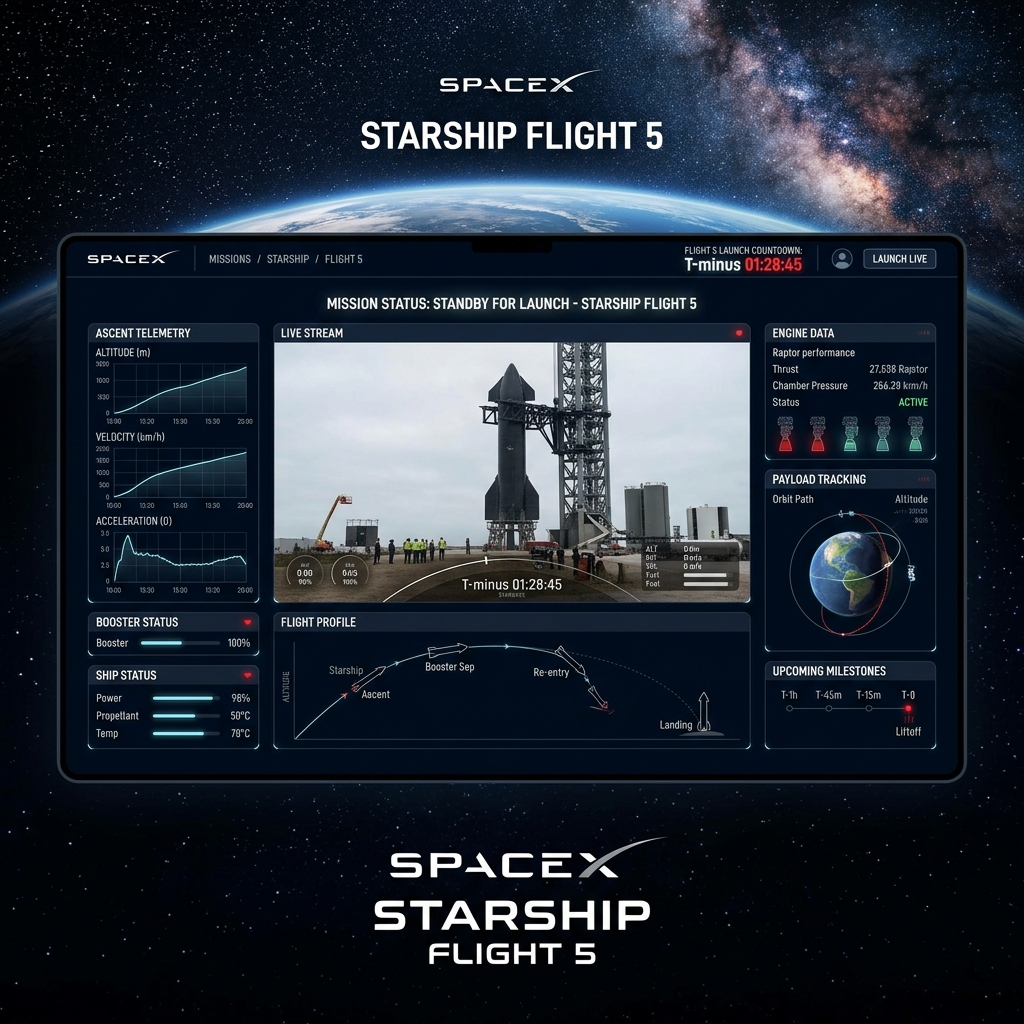
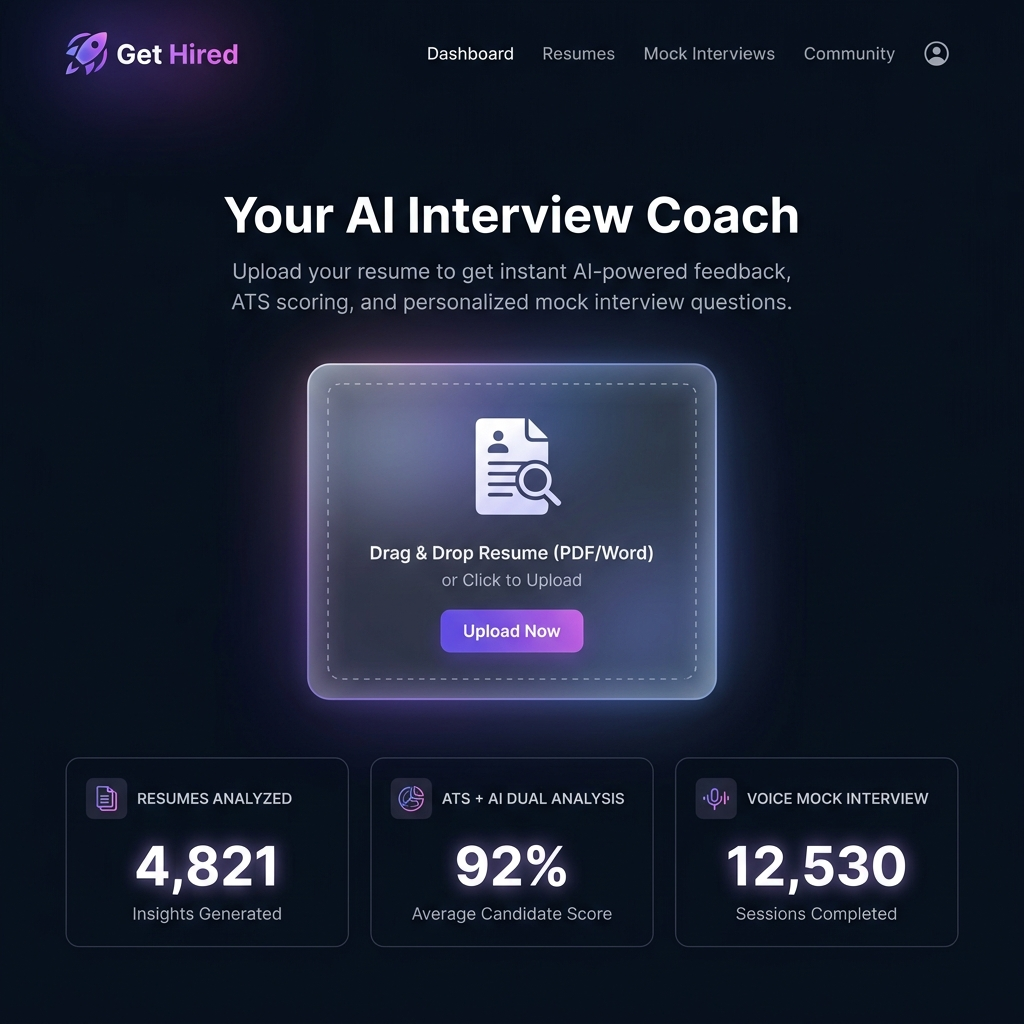
chore: replace SpaceX card with AI Interview Coach, add flat website mockup and links

diff --git a/src/container/Work/Work.jsx b/src/container/Work/Work.jsx
@@ -23,6 +23,7 @@ const projectImages = {
   'Origin.Ai': projectUiux,
   'Ewalle wallet app': projectEwalle,
   SpaceX: projectSpacex,
+  'AI Interview Coach': projectSpacex,
   'Web3.0 Project': projectWeb3,
   'Apex Fitness': projectApexfitness,
   'Blog Website': projectBlog,
@@ -50,11 +51,11 @@ const fallbackWorks = [
     tags: ['Mobile App', 'UI/UX', 'React JS'],
   },
   {
-    title: 'SpaceX',
-    description: 'SpaceX CRUD API built with Node JS.',
-    projectLink: 'https://google.com',
-    codeLink: 'https://google.com',
-    tags: ['Web App'],
+    title: 'AI Interview Coach',
+    description: 'An AI-powered interview preparation assistant that analyzes resumes for ATS score and conducts personalized voice mock interviews.',
+    projectLink: 'https://ai-interview-assistant-sooty-kappa.vercel.app/',
+    codeLink: 'https://github.com/kaushikshivam-stack/ai-interview-assistant',
+    tags: ['Web App', 'React JS', 'UI/UX'],
   },
   {
     title: 'Apex Fitness',
@@ -105,6 +106,18 @@ const projectOverrides = {
     description: 'A next-generation AI platform to accelerate innovation with advanced intelligence, blockchain tech, and cloud solutions.',
     projectLink: 'https://kaushikshivam-stack.github.io/Origin-Ai/',
     codeLink: 'https://github.com/kaushikshivam-stack/Origin-Ai',
+  },
+  SpaceX: {
+    title: 'AI Interview Coach',
+    description: 'An AI-powered interview preparation assistant that analyzes resumes for ATS score and conducts personalized voice mock interviews.',
+    projectLink: 'https://ai-interview-assistant-sooty-kappa.vercel.app/',
+    codeLink: 'https://github.com/kaushikshivam-stack/ai-interview-assistant',
+  },
+  'AI Interview Coach': {
+    title: 'AI Interview Coach',
+    description: 'An AI-powered interview preparation assistant that analyzes resumes for ATS score and conducts personalized voice mock interviews.',
+    projectLink: 'https://ai-interview-assistant-sooty-kappa.vercel.app/',
+    codeLink: 'https://github.com/kaushikshivam-stack/ai-interview-assistant',
   },
   'Web3.0 Project': {
     title: 'Apex Fitness',